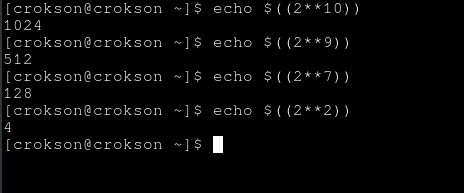
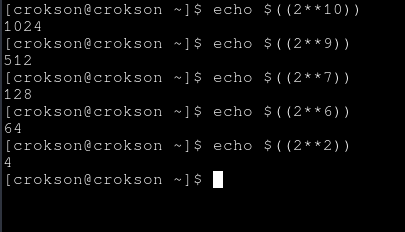
Add files via upload

Changed region(s): [[0.0, 0.0, 0.8889, 0.8083]]

diff --git a/writeup/two-complement-code/two-complement-code.md b/writeup/two-complement-code/two-complement-code.md
@@ -82,8 +82,8 @@ vậy còn số nhị phân `011011000100` ta lập bảng :
 
 ![alt text](image4.png)
 
-từ bảng ta có làn lượt là : `1024 , 512 , 128 và 4`
+từ bảng ta có làn lượt là : `1024 , 512 , 128 , 64 và 4`
 
-tính tổng lại : `1024 + 512 + 128 + 4 = 1668`
+tính tổng lại : `1024 + 512 + 128 + 64 + 4 = 1732`
 
 ![alt text](image5.png)